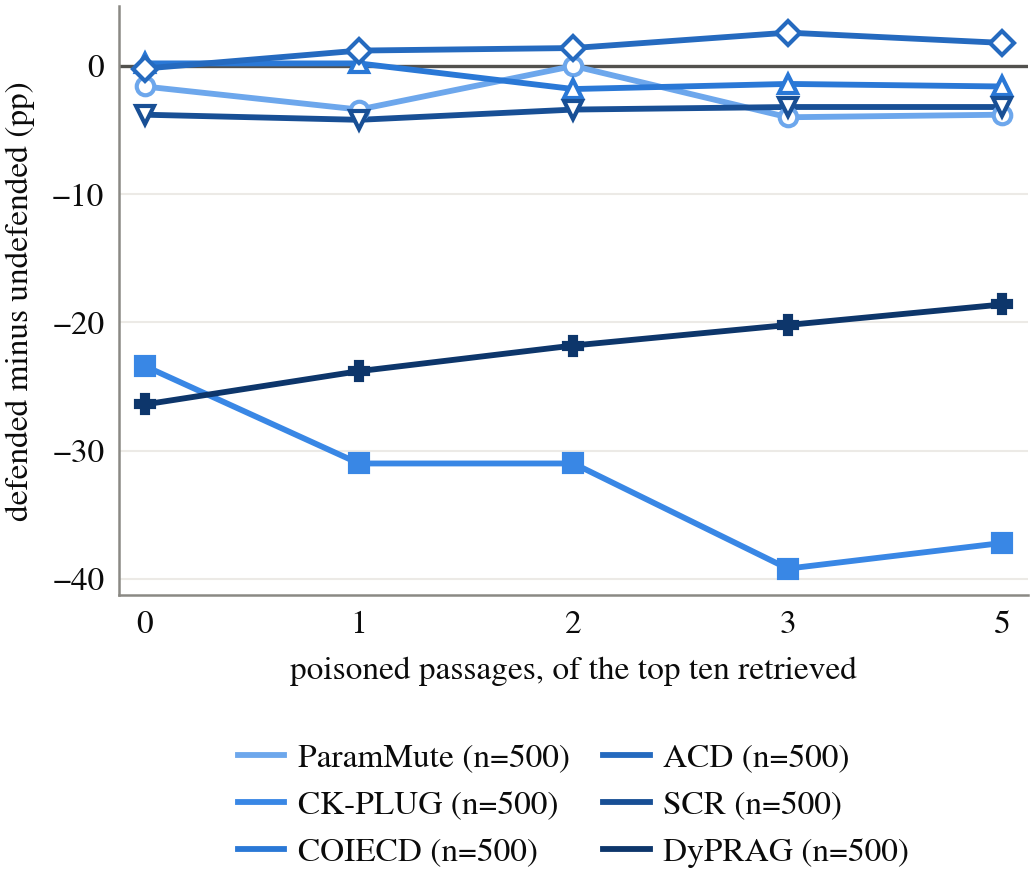
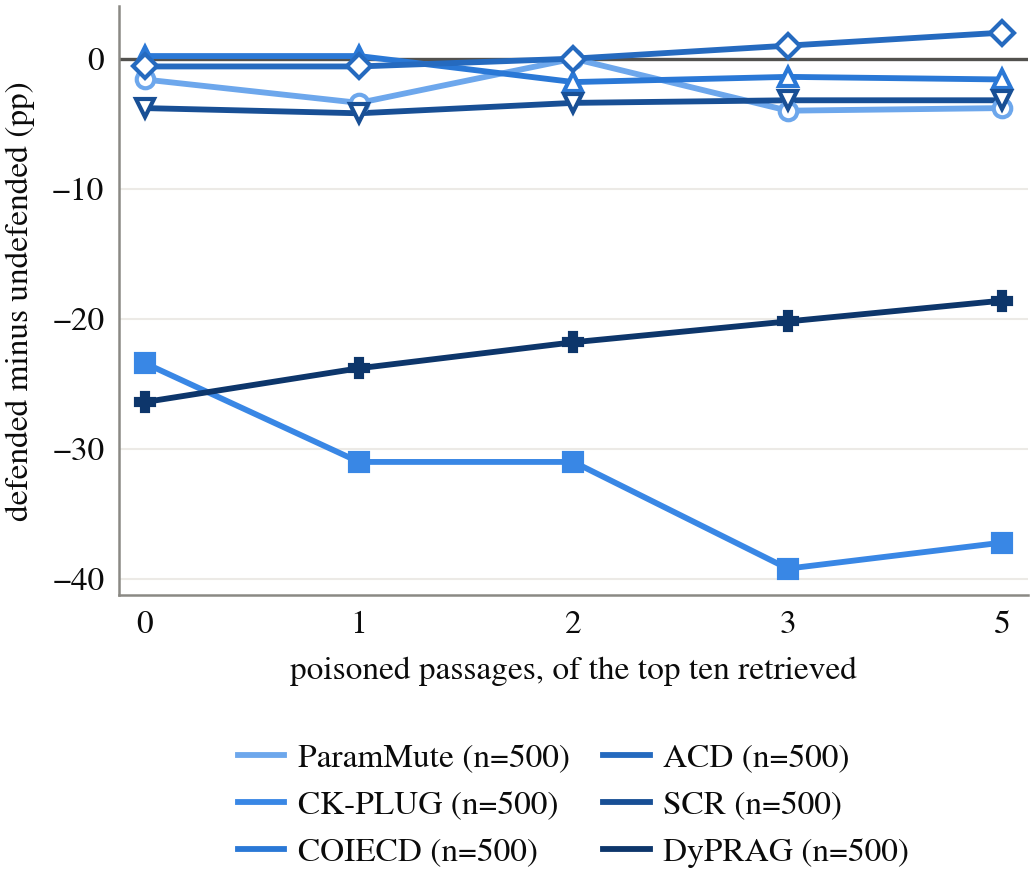
Report ACD's open-NQ cells from the 5-shot rerun; cube panels say security, safety
The grid table's ACD row and ACD's line in the dose figure now come from the
5-shot rerun (9d8e986), the prompt its control certified (PAPER_PLAN A2).
At five of ten the row moves by at most 1.2 points: PoisonedRAG +1.8,
corpus poisoning +2.0, refusal +35.0, tone -1.2; clean -0.6. The caption says
ACD's code gives the same five examples to the undefended model.

pair_tally gains superseded() and grid_file(): a zero-shot file whose
*_5shot rerun exists is skipped by every reader of the native_* files. Without
it gen_paper_numbers counted ACD twice (60 grid cells instead of 56). The grid
counts are unchanged; the episode totals drop by 6,000 because the rerun has
no dose-10 row.

Cube: the panel titles were "security papers" / "safety papers", but the
counts are causes and fixes, not papers. They now read "security" and
"safety", and the caption says the same.

diff --git a/latex/tables/grid.tex b/latex/tables/grid.tex
@@ -1,7 +1,7 @@
 % GENERATED by scripts/gen_grid_table.py -- do not hand-edit.
 \begin{table}[t]
 \centering
-\caption{Each fix against the other literature's causes on open Natural Questions: (a)~fixes built for honest mistakes, facing attacks; (b)~defenses built against attackers, facing honest mistakes. Rows below a rule meet their own literature's causes, for reference. Cells are percentage points against the run's undefended arm on the same items, with nothing planted (\emph{clean}) and with five of the top ten retrieved passages planted (\emph{5/10}). Refusal and tone are BadRAG's two attacks.}
+\caption{Each fix against the other literature's causes on open Natural Questions: (a)~fixes built for honest mistakes, facing attacks; (b)~defenses built against attackers, facing honest mistakes. Rows below a rule meet their own literature's causes, for reference. Cells are percentage points against the run's undefended arm on the same items, with nothing planted (\emph{clean}) and with five of the top ten retrieved passages planted (\emph{5/10}). Refusal and tone are BadRAG's two attacks. ACD runs with the five example questions its control used, and its code gives the same examples to the undefended model.}
 \label{tab:grid}
 \footnotesize
 \setlength{\tabcolsep}{1.5pt}
@@ -12,7 +12,7 @@
 \cmidrule(lr){2-3}\cmidrule(lr){4-5}\cmidrule(lr){6-7}\cmidrule(lr){8-9}
 fix & clean & 5/10 & clean & 5/10 & clean & 5/10 & clean & 5/10 \\
 \midrule
-ACD & $-0.2$ & $+1.4$ & $-0.2$ & $+1.8$ & $-0.2$ & $+35.8$ & $-0.2$ & $+0.0$ \\
+ACD & $-0.6$ & $+1.8$ & $-0.6$ & $+2.0$ & $-0.6$ & $+35.0$ & $-0.6$ & $-1.2$ \\
 CK-PLUG & $-23.4$ & $-22.2$ & $-23.4$ & $-37.2$ & $-23.4$ & $-29.4$ & $-23.4$ & $-44.2$ \\
 COIECD & $+0.2$ & $-1.2$ & $+0.2$ & $-1.6$ & $+0.2$ & $+0.0$ & $+0.2$ & $+0.2$ \\
 DyPRAG & $-26.4$ & $-18.0$ & $-26.4$ & $-18.6$ & $-26.4$ & $-1.0$ & $-26.4$ & $-21.2$ \\

diff --git a/scripts/pair_tally.py b/scripts/pair_tally.py
@@ -147,6 +147,26 @@ def _tight(s):
 VARIANTS = ("crossover", "mistral", "llama", "greedy", "pilot", "dose", "alpha")
 
 
+def superseded(path) -> bool:
+    """True for a grid file whose rerun under its authors' own setting exists.
+
+    The open-NQ ACD cells first ran zero-shot while ACD's control ran with
+    five CoConflictQA shots (PAPER_PLAN A2). The 5-shot reruns sit beside them
+    as *_5shot.json and replace them; the zero-shot files stay on disk as the
+    record of what ran first. Every reader of the native_* files skips a file
+    this returns True for, so a pair is never counted twice.
+    """
+    p = pathlib.Path(path)
+    return (not p.stem.endswith("_5shot")
+            and p.with_name(p.stem + "_5shot.json").exists())
+
+
+def grid_file(stem: str) -> pathlib.Path:
+    """The registry file to report for a grid cell: its 5-shot rerun if any."""
+    p = R / f"{stem}_5shot.json"
+    return p if p.exists() else R / f"{stem}.json"
+
+
 def _token(stem, table):
     stem = _sep(stem)
     for tok, label, key in table:
@@ -177,6 +197,8 @@ def retrieval_runs():
                 and isinstance(rows[0], dict) and "arm" in rows[0]):
             continue
         stem = path.stem.lower()
+        if superseded(path):
+            continue
         if stem in NOT_PAIR_RUNS:
             continue
         # smoke tests and dry runs of the second-direction runners check

diff --git a/scripts/gen_paper_figures.py b/scripts/gen_paper_figures.py
@@ -257,8 +257,8 @@ def fig_cube():
                            ha="right", rotation_mode="anchor")
         ax.set_yticks(range(len(CHANNELS)))
         ax.set_yticklabels(CHANNELS if track == "security" else [], fontsize=CS * 8)
-        ax.set_title("security papers" if track == "security"
-                     else "safety papers",
+        ax.set_title("security" if track == "security"
+                     else "safety",
                      fontsize=CS * 9, color=col)
         for sp in ax.spines.values():
             sp.set_visible(False)
@@ -425,10 +425,11 @@ def fig_dose():
     # was a dose we built for an item set that has none. Open NQ ships a
     # ranked pool, so the dose is the attack's own parameter: j of the top
     # ten, where j=1 is the default in its released constructor.
+    from pair_tally import grid_file as pt_grid_file
     RUNS = [("ParamMute", "native_parammute_corpus_poisoning.json"),
             ("CK-PLUG", "native_ckplug_corpus_poisoning.json"),
             ("COIECD", "native_coiecd_corpus_poisoning.json"),
-            ("ACD", "native_acd_corpus_poisoning.json"),
+            ("ACD", pt_grid_file("native_acd_corpus_poisoning").name),  # 5-shot rerun
             ("SCR", "native_scr_corpus_poisoning.json"),
             ("DyPRAG", "native_dyprag_corpus_poisoning.json")]
     UND = ("undefended", "base_rag", "rag", "base")

diff --git a/scripts/gen_grid_table.py b/scripts/gen_grid_table.py
@@ -30,6 +30,8 @@ from __future__ import annotations
 import json
 import pathlib
 
+from pair_tally import grid_file
+
 REPO = pathlib.Path(__file__).resolve().parent.parent
 REG = REPO / "data" / "registries"
 OUT = REPO / "latex" / "tables" / "grid.tex"
@@ -101,7 +103,7 @@ def main():
     grid, pending = {}, []
     for dfn in ROWS:
         for atk in COLS:
-            p = REG / f"native_{dfn}_{atk}.json"
+            p = grid_file(f"native_{dfn}_{atk}")   # 5-shot ACD rerun if present
             if not p.exists():
                 continue
             c = cell(p)
@@ -120,7 +122,9 @@ def main():
          "causes, for reference. Cells are percentage points against the "
          "run's undefended arm on the same items, with nothing planted "
          "(\\emph{clean}) and with five of the top ten retrieved passages "
-         "planted (\\emph{5/10}). Refusal and tone are BadRAG's two attacks.}",
+         "planted (\\emph{5/10}). Refusal and tone are BadRAG's two attacks. "
+         "ACD runs with the five example questions its control used, and "
+         "its code gives the same examples to the undefended model.}",
          "\\label{tab:grid}", "\\footnotesize",
          "\\setlength{\\tabcolsep}{1.5pt}",
          "\\begin{tabular}{@{}l" + "rr" * width + "@{}}", "\\toprule"]

diff --git a/scripts/gen_paper_numbers.py b/scripts/gen_paper_numbers.py
@@ -1247,6 +1247,7 @@ def main():
     # the rest of the paper uses, so a cell that moves less than its own
     # threshold counts as neither a gain nor a loss.
     import glob as _glob
+    from pair_tally import superseded as _pt_superseded
     _UND = ("undefended", "base_rag", "rag", "base")
     _DEF = ("defended", "ck", "coiecd", "acd", "scr", "parammute", "dyprag")
     _cells, _gain, _lose, _freeclean, _costclean = [], 0, 0, 0, 0
@@ -1262,6 +1263,9 @@ def main():
             continue
         # Reworded stale copies probe the stale document; not a grid cell.
         if _f.endswith("_reworded.json"):
+            continue
+        # A zero-shot ACD cell is replaced by its 5-shot rerun (PAPER_PLAN A2).
+        if _pt_superseded(_f):
             continue
         _d = json.loads(pathlib.Path(_f).read_text())
         _rows = [r for r in (_d.get("results") or []) if isinstance(r, dict)]

diff --git a/latex/sections/03-literatures.tex b/latex/sections/03-literatures.tex
@@ -50,8 +50,8 @@ A fix can intervene at one of three points between them.}
 \centering
 \includegraphics[width=0.92\textwidth]{figures/fig1_cube}
 \caption{Causes and fixes in every channel $\times$ consequence
-cell, split into security and safety papers: all \NMechanisms{} causes and all \NFixes{}
-fixes. Solid bars are causes and hatched bars fixes. Hue marks security or safety papers,
+cell, split into security and safety: all \NMechanisms{} causes and all \NFixes{}
+fixes. Solid bars are causes and hatched bars fixes. Hue marks security or safety,
 except in the last column, which sums both. A bold outline marks a cell with
 causes and no fix. Each panel's last row totals a consequence; the last
 column totals a channel across both panels. Totals have their own scale.}

diff --git a/latex/numbers.tex b/latex/numbers.tex
@@ -140,7 +140,7 @@
 \newcommand{\NRagPairs}{72}
 \newcommand{\NRagPairsKeyed}{51}
 \newcommand{\NRagPairsNovel}{49}
-\newcommand{\NRagEpisodes}{699,836}
+\newcommand{\NRagEpisodes}{693,836}
 \newcommand{\NRagImpl}{14}
 \newcommand{\NAgentPairs}{56}
 \newcommand{\NAgentEpisodes}{3,584}
@@ -154,7 +154,7 @@
 \newcommand{\NAgentTriedReasoning}{7}
 \newcommand{\NCampaignPairs}{128}
 \newcommand{\NCampaignImpl}{22}
-\newcommand{\NCampaignEpisodes}{703,420}
+\newcommand{\NCampaignEpisodes}{697,420}
 \newcommand{\NChannelCats}{9}
 \newcommand{\NConseqCats}{6}
 \newcommand{\NCubeCells}{108}
